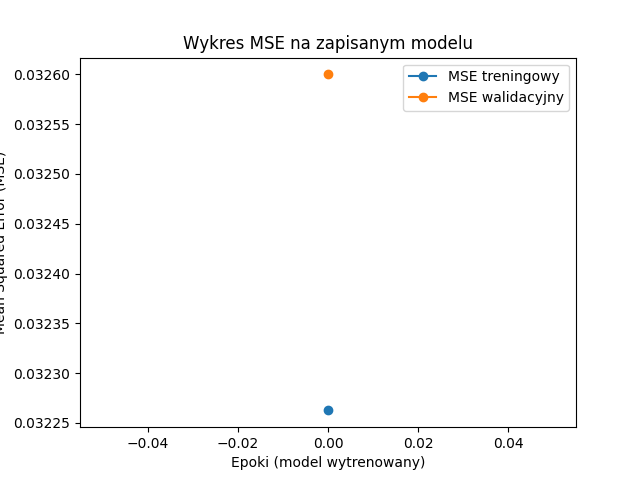
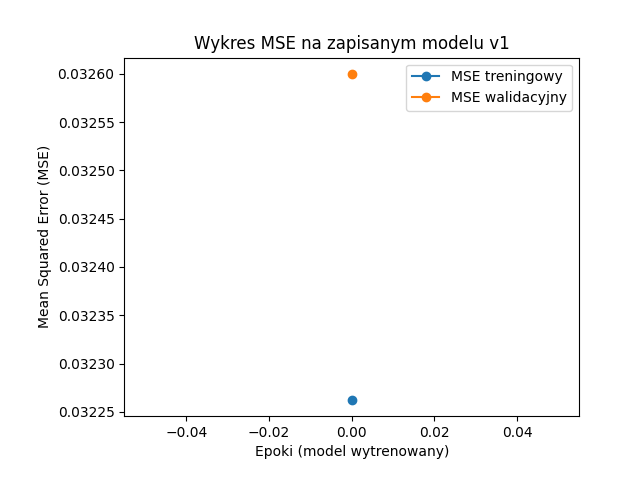
Classification erros plot

diff --git a/src/evaluate.py b/src/evaluate.py
@@ -1,7 +1,7 @@
 from data_preparation import load_and_prepare_data
 from tensorflow.keras.models import load_model
 import matplotlib.pyplot as plt
-from sklearn.metrics import mean_squared_error
+from sklearn.metrics import mean_squared_error, accuracy_score
 import os
 
 # Wczytanie i przygotowanie danych
@@ -10,7 +10,7 @@ X_train, X_test, y_train, y_test = load_and_prepare_data(data_path='data/diabete
 
 # Wczytanie wytrenowanego modelu
 print('Wczytywanie modelu... -', os.path.basename(__file__))
-model = load_model('models/model-v1.keras')
+model = load_model('models/model-v1.keras')  # Zmień nazwę modelu, jeśli jest inna
 
 # Przewidywania na zbiorach treningowym i walidacyjnym
 print('Przewidywanie... -', os.path.basename(__file__))
@@ -19,13 +19,13 @@ test_predictions = model.predict(X_test)
 
 # Używamy progu 0.5 do klasyfikacji 0-1
 print('Klasyfikacja... -', os.path.basename(__file__))
-train_predictions = (train_predictions > 0.5).astype(int)
-test_predictions = (test_predictions > 0.5).astype(int)
+train_predictions_binary = (train_predictions > 0.5).astype(int)
+test_predictions_binary = (test_predictions > 0.5).astype(int)
 
-# Obliczenie MS
+# Obliczenie MSE
 print('Obliczanie MSE... -', os.path.basename(__file__))
-train_mse = mean_squared_error(y_train, train_predictions)
-test_mse = mean_squared_error(y_test, test_predictions)
+train_mse = mean_squared_error(y_train, train_predictions_binary)
+test_mse = mean_squared_error(y_test, test_predictions_binary)
 
 print(f'MSE dla zbioru treningowego: {train_mse}')
 print(f'MSE dla zbioru walidacyjnego: {test_mse}')
@@ -36,5 +36,20 @@ plt.plot([0], [test_mse], label='MSE walidacyjny', marker='o')   # MSE po walida
 plt.xlabel('Epoki (model wytrenowany)')
 plt.ylabel('Mean Squared Error (MSE)')
 plt.legend()
-plt.title('Wykres MSE na zapisanym modelu')
+plt.title('Wykres MSE na zapisanym modelu v1')
+plt.show()
+
+# Obliczenie błędów klasyfikacji
+print('Obliczanie błędów klasyfikacji... -', os.path.basename(__file__))
+train_error = 1 - accuracy_score(y_train, train_predictions_binary)
+test_error = 1 - accuracy_score(y_test, test_predictions_binary)
+
+print(f'Błąd klasyfikacji dla zbioru treningowego: {train_error:.4f}')
+print(f'Błąd klasyfikacji dla zbioru walidacyjnego: {test_error:.4f}')
+
+# Wykres błędu klasyfikacji
+plt.bar_label(plt.bar([f'Błąd treningowy', f'Błąd walidacyjny'], [train_error, test_error], color=['blue', 'orange']))
+plt.xlabel('Zbiór danych')
+plt.ylabel('Błąd klasyfikacji')
+plt.title('Wykres błędu klasyfikacji na zapisanym modelu v1')
 plt.show()
